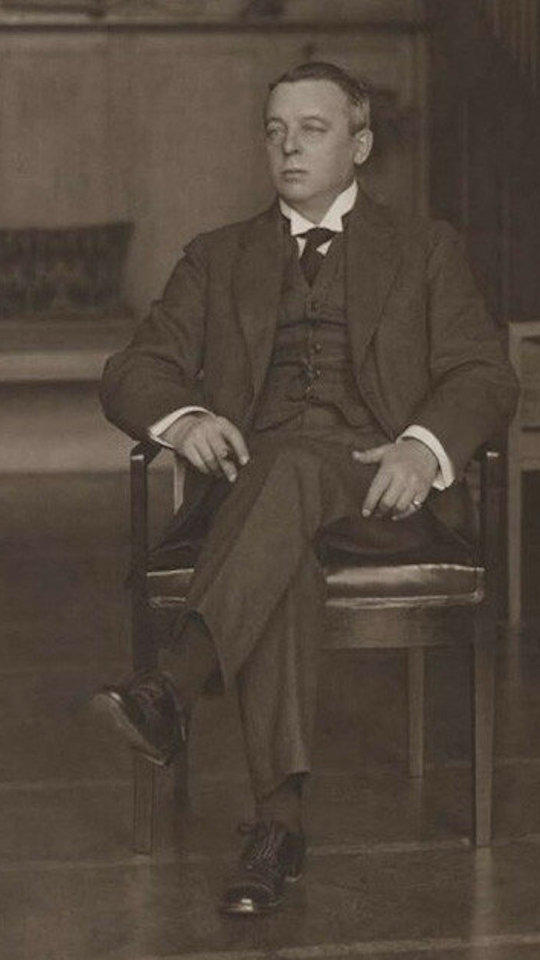
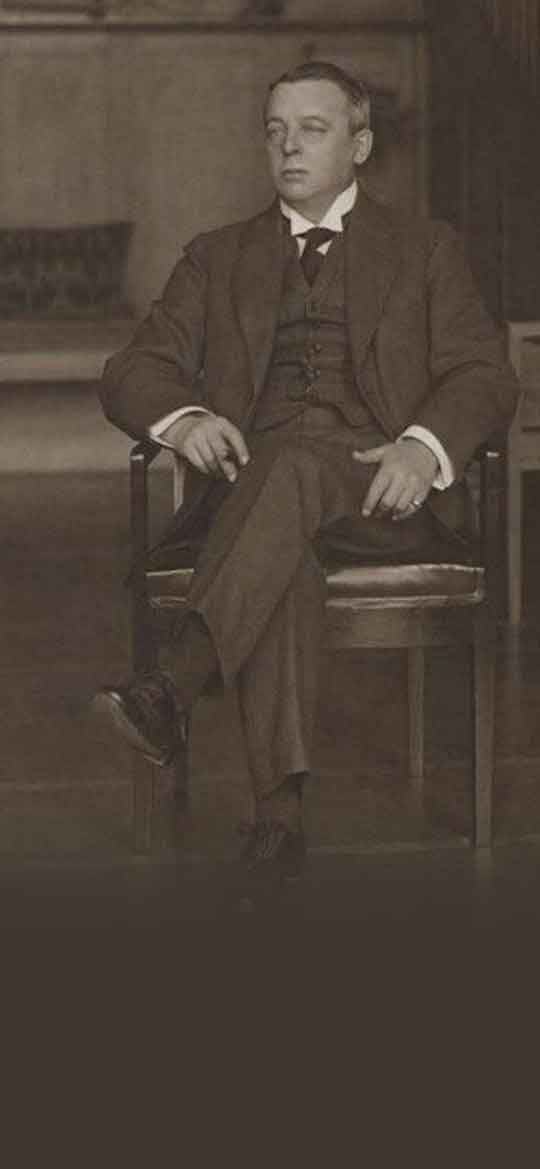
update 09042020-evening

diff --git a/src/less/styles.less b/src/less/styles.less
@@ -30,7 +30,7 @@
     width: 100%;
     height: 100%;
     // background: linear-gradient(180deg, rgba(0,0,0,0) 0%, rgba(255,255,255,0.9) 75%);
-    background: linear-gradient(180deg, rgba(255, 255, 255, 0) 0%, #FFFFFF 54.69%);
+    // background: linear-gradient(180deg, rgba(255, 255, 255, 0) 0%, #FFFFFF 54.69%);
     .owl-text {
       color: @grey;
     }
@@ -40,15 +40,15 @@
 .owl-card-1 {
   .item {
     &[data-hash="one"] {
-      background-image: url(../img/Shechtel-1-lg.jpg) ;
+      background-image: url(../img/Shechtel-1.jpg) ;
     }
 
     &[data-hash="two"] {
-      background-image: url(../img/Shechtel-2-lg.jpg) ;
+      background-image: url(../img/Shechtel-2.jpg) ;
     }
 
     &[data-hash="three"]{
-      background-image: url(../img/Shechtel-3-lg.jpg) ;;
+      background-image: url(../img/Shechtel-3.jpg) ;;
     }
   }
 }
